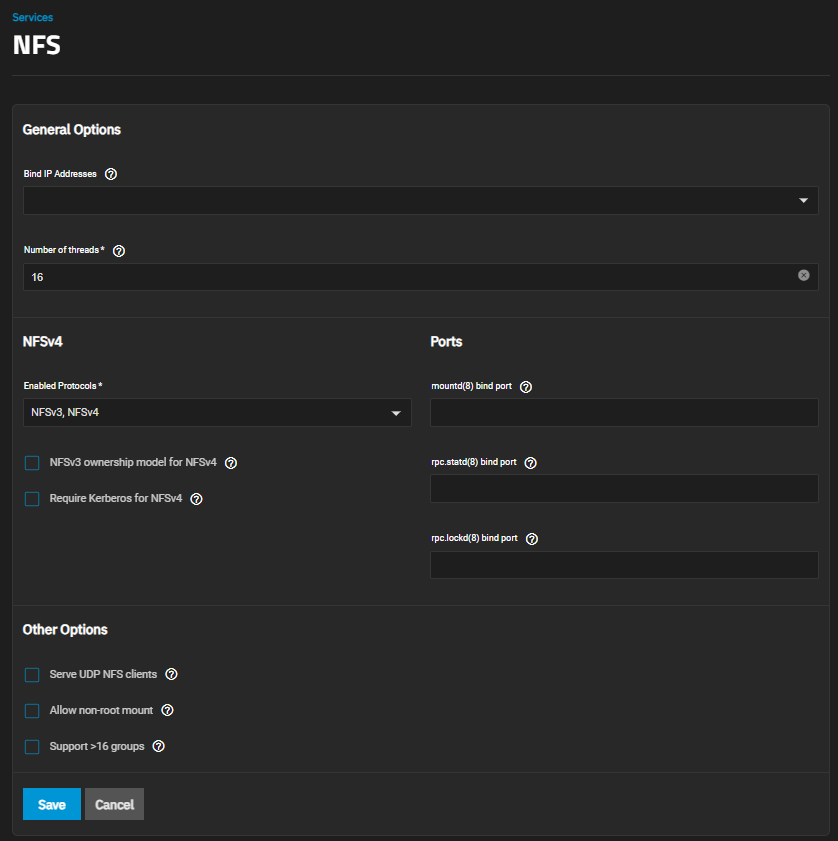
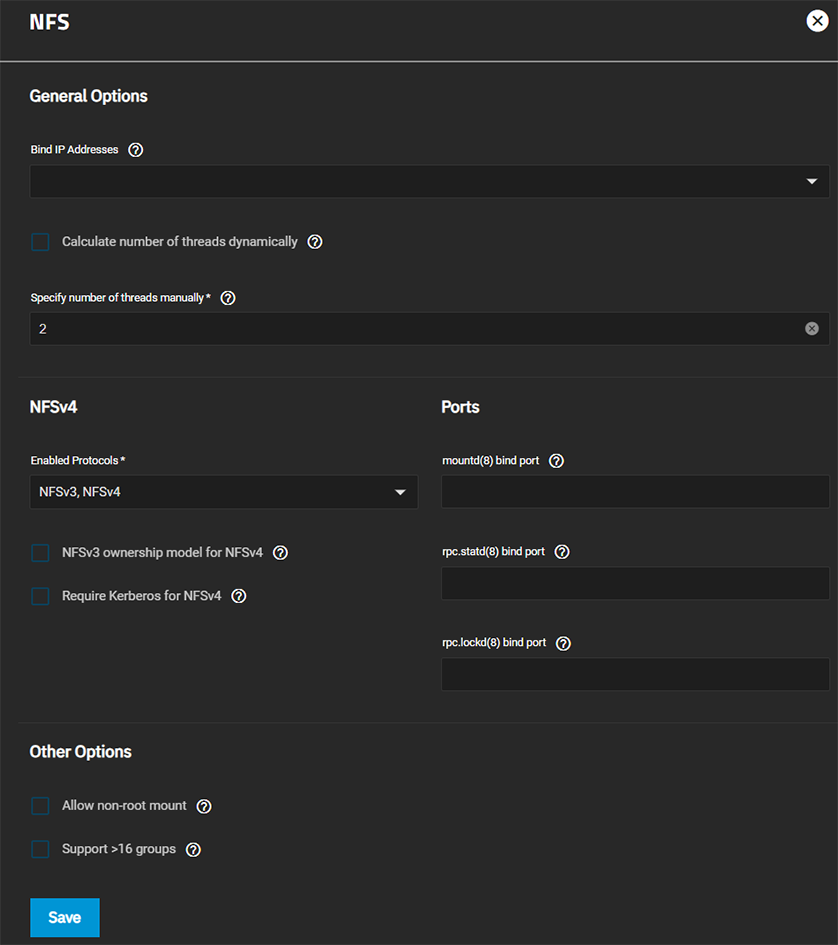
PD-928

diff --git a/content/SCALE/SCALEUIReference/SystemSettings/Services/NFSServiceScreen.md b/content/SCALE/SCALEUIReference/SystemSettings/Services/NFSServiceScreen.md
@@ -19,9 +19,9 @@ The **Services > NFS** configuration screen displays settings to customize the T
 You can access it from **System Settings > Services** screen. 
 Locate **NFS** and click <i class="material-icons" aria-hidden="true" title="Configure">edit</i> to open the screen, or use the **Config Service** option on the **Unix (NFS) Share** widget options menu found on the main **Sharing** screen.
 
-Select **Start Automatically** to activate NFS service when TrueNAS boots.
+Select **Start Automatically** to activate the NFS service when TrueNAS boots.
 
-![ServicesNFSSettingsScreen](/images/SCALE/SystemSettings/ServicesNFSSettingsScreen.png "Services NFS Options")
+{{< trueimage src="/images/SCALE/SystemSettings/ServicesNFSSettingsScreen.png" alt="NFS Service Settings" id="NFS Service Settings" >}}
 
 ### General Options Settings
 
@@ -29,7 +29,8 @@ Select **Start Automatically** to activate NFS service when TrueNAS boots.
 | Setting | Description |
 |---------|-------------|
 | **Bind IP Addresses** | Select IP addresses to listen to for NFS requests. Leave empty for NFS to listen to all available addresses. You must configure static IPs on the interface to appear on the dropdown list. |
-| **Number of threads** | Required. Enter an optimal number of threads used by the kernel NFS server. |
+| **Calculate number of threads dynamically** | Automatically sets the number of threads used by the kernel NFS server. |
+| **Specify number of threads manually** | Becomes editable after selecting **Calculate number of threads dynamically**. Enter an optimal number of threads used by the kernel NFS server. |
 {{< /truetable >}}
 
 ### NFSv4 Settings
@@ -38,7 +39,7 @@ Select **Start Automatically** to activate NFS service when TrueNAS boots.
 | Setting | Description |
 |---------|-------------|
 | **Enabled Protocols** | Select NFSv3, NFSv4, or both. If NFSv4 is selected, **NFSv3 ownership model for NFSv4** clears, allowing you to select or leave it clear. |
-| **NFSv3 ownership model for NFSv4** | Becomes selectable after selecting **NFSv4**. Select when NFSv4 ACL support is needed without requiring the client and the server to sync users and groups. |
+| **NFSv3 ownership model for NFSv4** | Becomes selectable after selecting **NFSv4**. Select when you need NFSv4 ACL support without requiring the client and the server to sync users and groups. |
 | **Require Kerberos for NFSv4** | Select to force NFS shares to fail if the Kerberos ticket is unavailable. |
 {{< /truetable >}}
 
@@ -58,10 +59,10 @@ Select **Start Automatically** to activate NFS service when TrueNAS boots.
 | Setting | Description |
 |---------|-------------|
 | **Serve UDP NFS clients** | Select if NFS clients need to use the User Datagram Protocol (UDP). |
-| **Allow non-root mount** | Select only if required by the NFS client to allow serving non-root mount requests. | 
-| **Support >16 groups** | Select when a user is a member of more than 16 groups. This assumes group membership is configured correctly on the NFS server. | 
+| **Allow non-root mount** | Only select if required by the NFS client to allow serving non-root mount requests. | 
+| **Support >16 groups** | Select when a user is a member of more than 16 groups. This setting assumes group membership is configured correctly on the NFS server. | 
 {{< /truetable >}}
 
-Unless a specific setting is required, we recommend using the default NFS settings.
+We recommend using the default NFS settings unless you require specific settings.
 
 When TrueNAS is already connected to [Active Directory]({{< relref "/SCALE/SCALEUIReference/Credentials/DirectoryServices/_index.md" >}}), setting **NFSv4** and **Require Kerberos for NFSv4** also requires a [Kerberos Keytab]({{< relref "/SCALE/SCALEUIReference/Credentials/DirectoryServices/_index.md" >}}). 

diff --git a/content/SCALE/SCALETutorials/SystemSettings/Services/NFSServiceSCALE.md b/content/SCALE/SCALETutorials/SystemSettings/Services/NFSServiceSCALE.md
@@ -12,23 +12,23 @@ The **Services > NFS** configuration screen displays settings to customize the T
 
 You can access it from **System Settings > Services** screen. Locate **NFS** and click <i class="material-icons" aria-hidden="true" title="Configure">edit</i> to open the screen, or use the **Config Service** option on the **Unix (NFS) Share** widget options menu found on the main **Sharing** screen.
 
-Select **Start Automatically** to activate NFS service when TrueNAS boots.
+Select **Start Automatically** to activate the NFS service when TrueNAS boots.
 
-![ServicesNFSSettingsScreen](/images/SCALE/SystemSettings/ServicesNFSSettingsScreen.png "Services NFS Options")
+{{< trueimage src="/images/SCALE/SystemSettings/ServicesNFSSettingsScreen.png" alt="NFS Service Settings" id="NFS Service Settings" >}}
 
 ### Configuring NFS Service
 
-Unless a specific setting is required, we recommend using the default NFS settings.
+We recommend using the default NFS settings unless you require specific settings.
 
-Select the IP address from the **Bind IP Addresses** dropdown list if you want to use a specific static IP address, or to list on all available addresses leave this blank.
+Select the IP address from the **Bind IP Addresses** dropdown list if you want to use a specific static IP address, or leave this field blank for NFS to listen to all available addresses.
 
-Enter an optimal number of threads used by the kernel NFS server in **Number of threads**. 
+By default, TrueNAS dynamically calculates the number of threads the kernel NFS server uses. However, if you want to manually enter an optimal number of threads the kernel NFS server uses, clear **Calculate number of threads dynamically** and enter the number of threads you want in the **Specify number of threads manually** field. 
 
-If you are using NFSv4 select **NFSv4** from **Enabled Protocols**. **NFSv3 ownership model for NFSv4** clears, allowing you to select or leave it clear.
+If using NFSv4, select **NFSv4** from **Enabled Protocols**. **NFSv3 ownership model for NFSv4** clears, allowing you to enable or leave it clear.
 
 If you want to force NFS shares to fail if the Kerberos ticket is unavailable, select **Require Kerberos for NFSv4**.
 
-Next enter a port to bind to in the field that applies:
+Next, enter a port to bind to in the field that applies:
 
 * Enter a port to bind [mountd(8)](https://man7.org/linux/man-pages/man8/mountd.8.html) in **mountd(8) bind port**. 
 * Enter a port to bind [rpc.statd(8)](https://man7.org/linux/man-pages/man8/statd.8.html)in **rpc.statd(8) bind port**.
@@ -36,9 +36,9 @@ Next enter a port to bind to in the field that applies:
 
 Select **Serve UDP NFS clients** if NFS clients need to use UDP.
 
-Select **Allow non-root mount** only if required by the NFS client to allow serving non-root mount requests. 
+Only select **Allow non-root mount** if the NFS client requires it to allow serving non-root mount requests.
 
-Select **Support > 16 groups** when a user is a member of more than 16 groups. This assumes group membership is configured correctly on the NFS server.
+Select **Support > 16 groups** when a user is a member of more than 16 groups. This setting assumes group membership is configured correctly on the NFS server.
 
 Click **Save**.
 
